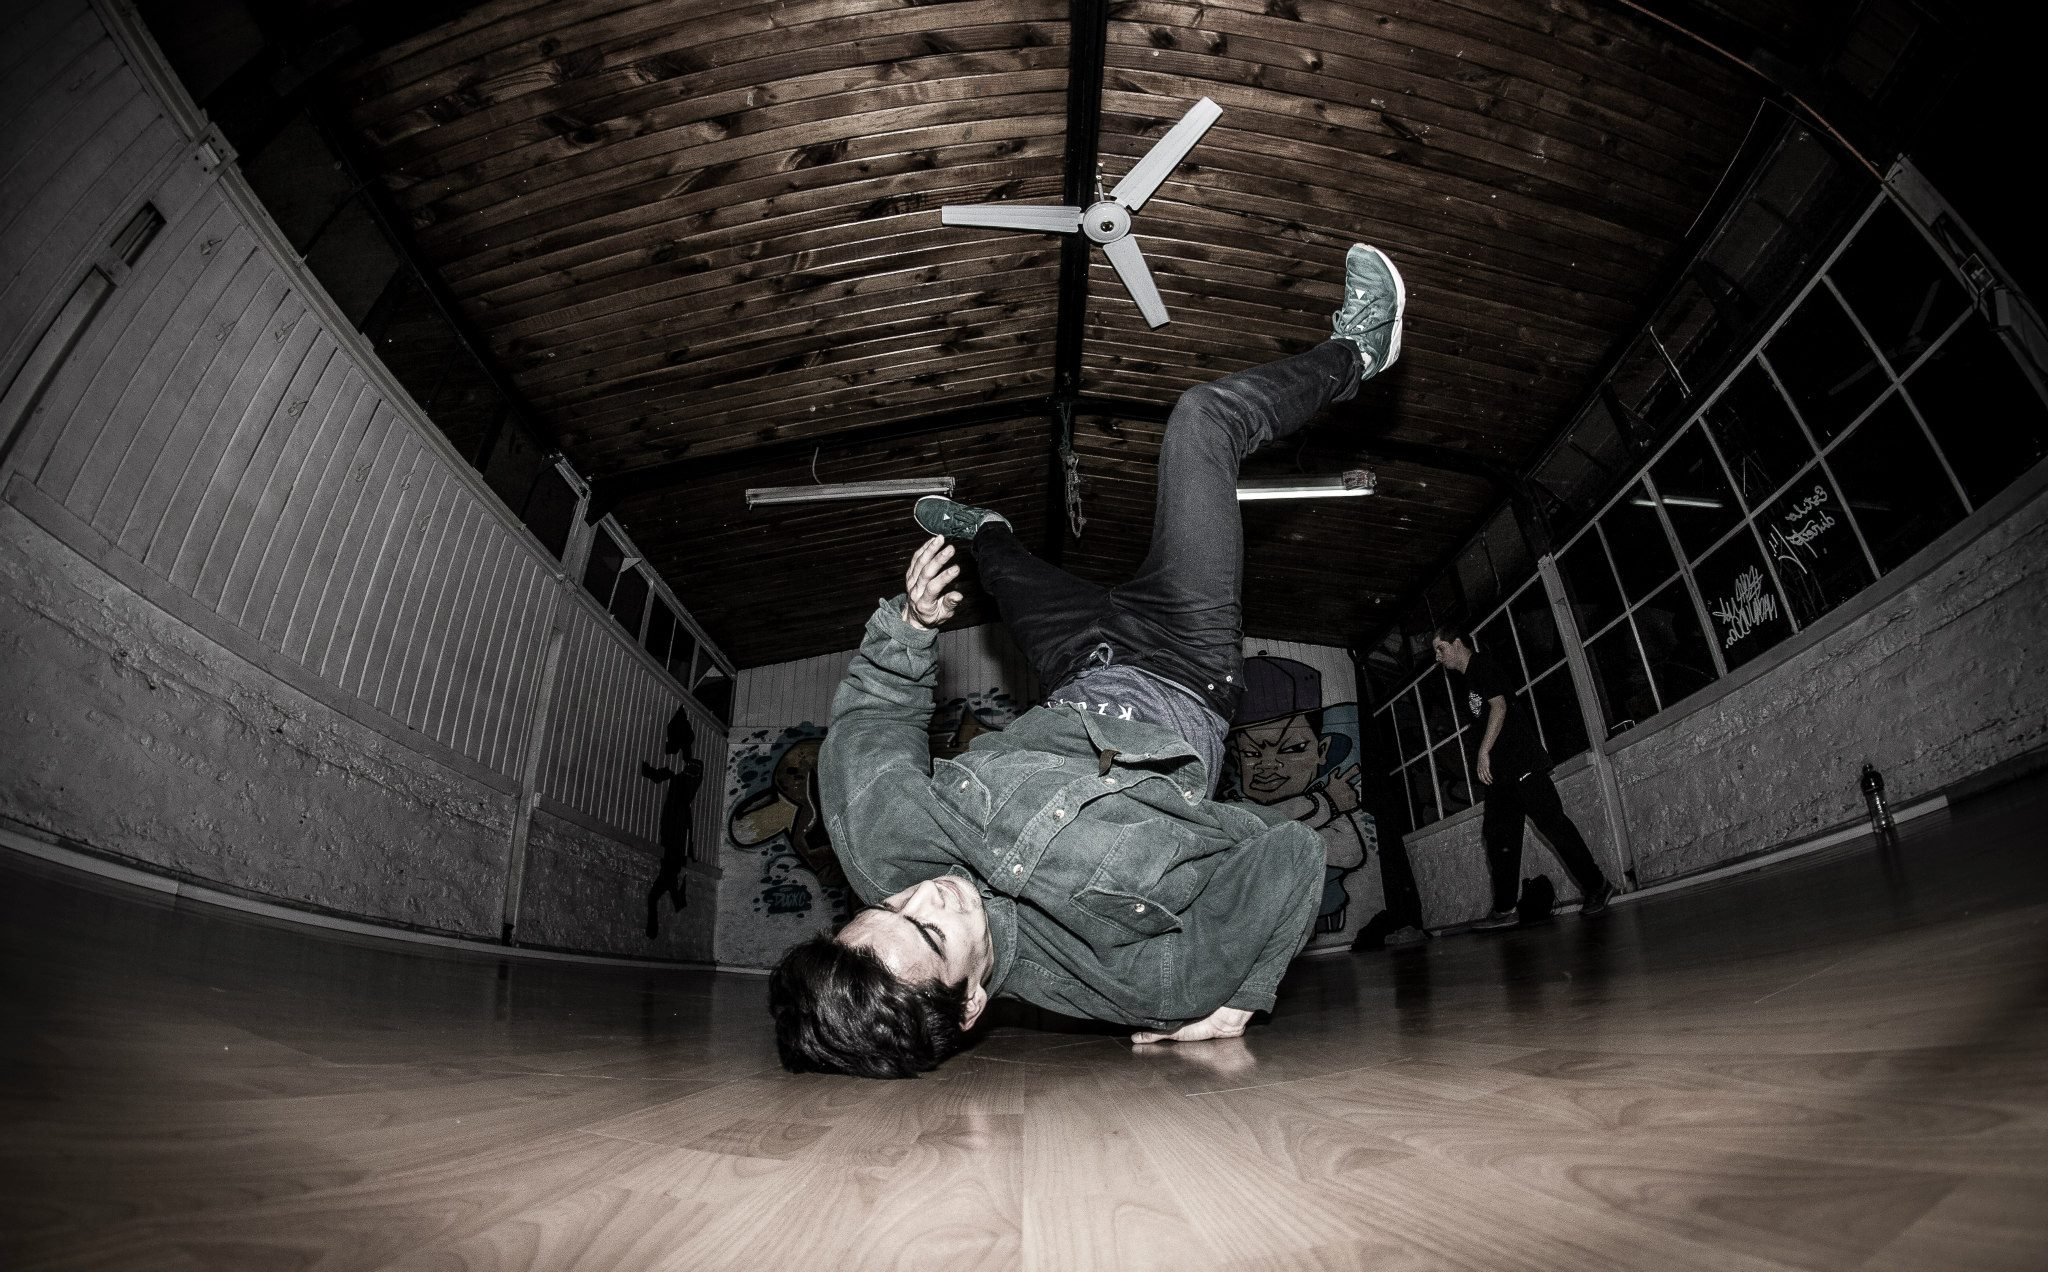
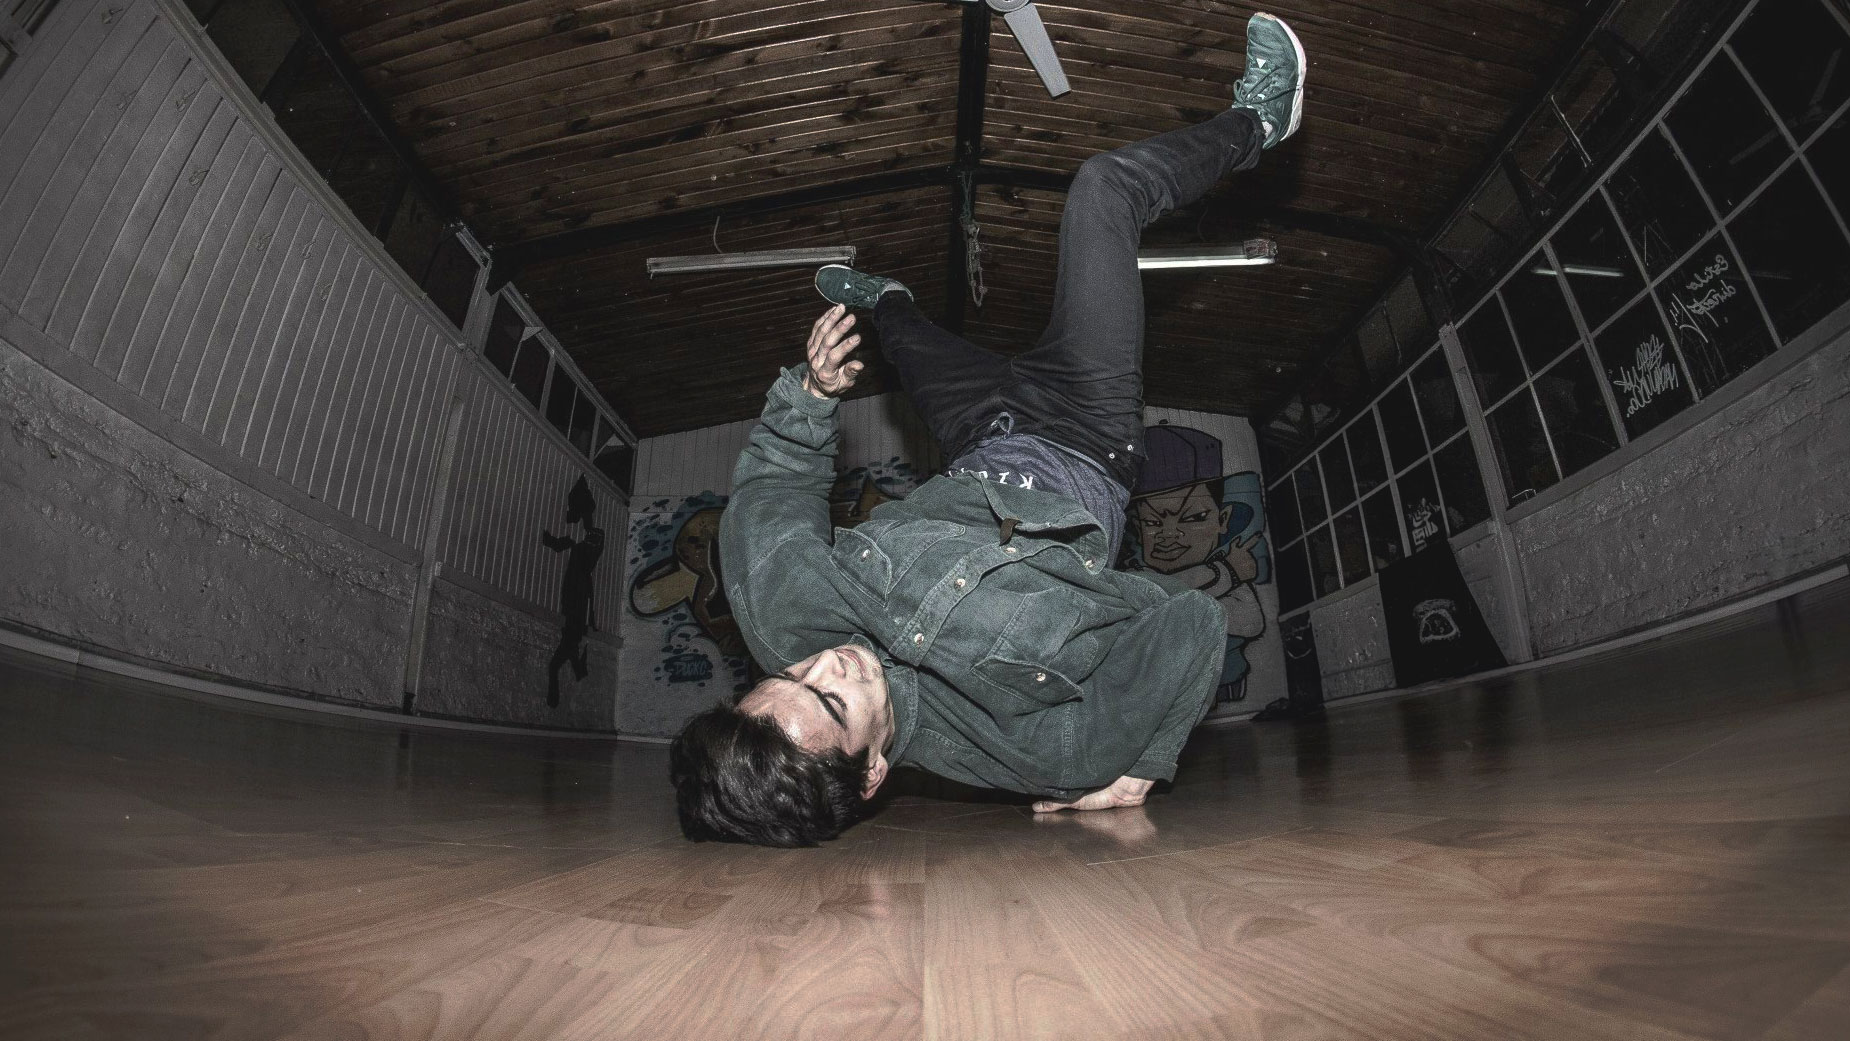
Update de Landing Page Estructura

diff --git a/html/landingpagev1.html b/html/landingpagev1.html
@@ -8,132 +8,74 @@
         integrity="sha384-QWTKZyjpPEjISv5WaRU9OFeRpok6YctnYmDr5pNlyT2bRjXh0JMhjY6hW+ALEwIH" crossorigin="anonymous">
     <title>salacypher</title>
 
-    <!-- Aqui aparece lo que ve el Usuario -->
-    <style>
-        .flex-container {
-            display: flex;
-            justify-content: right;
-        }
+    <!-- CSS -->
+    <link rel="stylesheet" href="estilos.css">
 
-        .flex-container>div {
-            background-color: #f1f1f1;
-            list-style-type: none;
-            margin: 10px;
-            padding: 20px;
-            font-size: 30px;
-        }
-
-        body {
-            margin: 0;
-            font-family: Arial, sans-serif;
-            background-color: #333;
-        }
-
-        .wrap {
-            width: 100vw;
-            height: 100vh;
-            display: flex;
-            align-items: end;
-            justify-content: center;
-            background: linear-gradient(to bottom, rgb(0 0 0 / .5), rgb(0 0 0 / .5)), url();
-            background-size: cover;
-            background-position: center;
-        }
-
-        .wrap-texto {
-            color: #fff;
-            text-align: center;
-            width: 50%;
-        }
-
-        header {
-            background-color: #333;
-            color: #fff;
-            padding: 10px;
-        }
-
-        nav ul {
-            list-style: none;
-            padding: 0;
-            margin: 0;
-        }
-
-        nav li {
-            display: inline;
-            /* Hace que los ítems del menú estén en una línea horizontal */
-            margin-right: 20px;
-            /* Espacio entre los ítems del menú */
-        }
-
-        nav a {
-            text-decoration: none;
-            color: #fff;
-            font-size: 16px;
-        }
-
-        nav a:hover {
-            text-decoration: underline;
-        }
-
-        .center-footer {
-            margin-right: 20px;
-            color: #f1f1f1;
-            display: flex;
-            justify-content: center;
-        }
-
-        .descripcion {
-            display: inside;
-            justify-content: cover;
-        }
-
-        .div-img {
-            position: cover;
-            width: 100%;
-            height: 100%;
-            top: 50%;
-            right: 50%;
-        }
-
-        .logo {
-            position: cover;
-            width: 100%;
-            height: 100%;
-            top: 50%;
-            left: 50%;
-        }
-    </style>
 </head>
 
 <body>
     <!-- Nav -->
-    <div class="flex-container">
-        <header class="showcase">
-            <nav role="nav">
-                <ul>
-                    <li><a href="#">HOME</a></li>
-                    <li><a href="#">CURSOS</a></li>
-                    <li><a href="#">TUTORIALES</a></li>
-                    <li><a href="#">TORNEOS</a></li>
-                    <li><a href="#">NOTICIAS</a></li>
-                    <button>INSCRIBETE</button>
-                </ul>
-
-            </nav>
-    </div>
-
+    <header>
+        <div class="flex-container">
+            <div style="display: inline-block; margin: 0;width: 100%;">
+                <header class="showcase">
+                    <nav role="nav">
+                        <ul>
+                            <li><a href="#"> HOME </a></li>
+                            <li><a href="#"> CURSOS </a></li>
+                            <li><a href="#"> TUTORIALES </a></li>
+                            <li><a href="#"> TORNEOS </a></li>
+                            <li><a href="#"> NOTICIAS </a></li>
+                            <li><a href="#abajo">¡Inscríbete ahora!</a></li>
+                        </ul>
+                    </nav>
+            </div>
+    </header>
+    <!--Texto Superpuesto / imagen 1 en css-->
     <div class="wrap">
         <div class="wrap-texto">
-            <h1>Texto Superpuesto</h1>
-            <p>Lorem ipsum dolor sit amet consectetur adipisicing elit. Reprehenderit hic tenetur rem quasi nulla
-                quibusdam? Ducimus commodi temporibus quae placeat.</p>
+            <h1>SALA CYPHER</h1>
+            <h7>
+                <p>CENTRO DE ENTRENAMIENTO Y COMUNIDAD BBOY</p>
+            </h7>
+            <h3>
+                <p>"Como muchos saben este centro de entrenamiento comunitario no
+                    es un simple lugar, desde las experiencias de todos los que participan se construye algo
+                    significativo y
+                    en constante cambio, tratando de mantener siempre la esencia de la Cultura Hip Hop".</p>
+            </h3>
         </div>
     </div>
+
+    <div class="logo">
+        <img src="https://i.ibb.co/ZgQBBhW/logo.png" alt="logobboy" width="200" height="150">
+    </div>
+
+    <!-- Formulario -->
+    <form action="/my-handling-form-page" method="post">
+        <div>
+            <label for="name">Nombre</label>
+            <input type="text" id="name" name="user_name" />
+        </div>
+        <div>
+            <label for="mail">Correo electronico</label>
+            <input type="email" id="mail" name="user_mail" />
+        </div>
+        <div>
+            <label for="msg">Mensaje</label>
+            <textarea id="msg" name="user_message"></textarea>
+        </div>
+        <div class="button">
+            <button type="submit">Envia tu mensaje</button>
+        </div>
+    </form>
+
+    <a name="abajo"></a>
 
     <footer class="center-footer">
         <p>SALA CYPHER &copy; 2024</p>
     </footer>
-
+    <script src="https://maxcdn.bootstrapcdn.com/bootstrap/4.5.2/js/bootstrap.min.js"></script>
 </body>
 
 </html>

diff --git a/html/estilos.css b/html/estilos.css
@@ -1,6 +1,6 @@
 .flex-container {
     display: flex;
-    justify-content: right;
+    justify-content: center;
 }
 
 .flex-container {
@@ -27,20 +27,22 @@ header {
 
 nav ul {
     list-style: none;
-    padding: 0;
+    padding: 1;
     margin: 0;
 }
 
 nav li {
     display: inline;
-    margin-right: 40px;
+    margin-right: 20px;
+    /* Reducido el margen para dispositivos más pequeños */
 }
 
 /* Color de letras Menu */
 nav a {
     text-decoration: none;
-    color: #ffffff;
+    color: #e0a615;
     font-size: 16px;
+
 }
 
 nav a:hover {
@@ -48,46 +50,57 @@ nav a:hover {
 
 }
 
+.a {
+    color: #e0a615;
+    background-color: #333;
+    border-radius: 1em;
+}
+
 /* Aquí va la imagen de incio */
 .wrap {
-    width: 1690px;
-    height: 890px;
+    max-width: 100%;
+    /* Haciendo que la imagen ocupe todo el ancho */
+    height: auto;
+    /* Para mantener la relación de aspecto */
     display: flex;
     align-items: center;
     justify-content: center;
+    /* Centrando la imagen */
     background: url(https://i.ibb.co/6XXcc76/bboy.jpg);
     background-size: cover;
-    background-position: left;
+    background-position: cover;
+
 }
 
 /* Aquí colocamos las propiedades del texto sobrepuesto */
 .wrap-texto {
     color: white;
     text-align: center;
-    justify-content: right;
-    width: 20%;
-    margin: 1px;
-    padding: 1px;
-    background-position: right;
-    border-radius: 1%;
+    width: 50%;
+    /* Cambiado para que el texto sea más ancho en dispositivos pequeños */
+    margin: 10%;
+    ;
+    /* Espaciado para dispositivos pequeños */
+    padding: 10%;
+    /* Espaciado para dispositivos pequeños */
+    background-position: center;
+    /* Aumentando el radio para suavizar las esquinas */
+    background-color: rgba(0, 0, 0, 0.311);
+    /* Ajustando la opacidad del fondo */
+    border: 1px solid #ccc;
+    border-radius: 1em;
 }
 
-logo {
-    border-radius: 1%;
-}
+.logo {
+    text-align: center;
 
-/* Aqui el footer */
-.center-footer {
-    color: #f1f1f1;
-    display: flex;
-    justify-content: center;
 }
-
 
 /* Aqui empieza la config del formulario */
 form {
     color: #fff;
     margin: 0 auto;
+    max-width: 100%;
     width: 400px;
     padding: 1em;
     border: 1px solid #ccc;
@@ -109,7 +122,7 @@ label {
 input,
 textarea {
     font: 1em sans-serif;
-    width: 300px;
+    width: 100%;
     -moz-box-sizing: border-box;
     box-sizing: border-box;
     border: 1px solid #999;
@@ -126,10 +139,11 @@ textarea {
     resize: vertical;
 }
 
-.button {
-    padding-left: 90px;
-}
 
-button {
-    margin-left: 0.5em;
+
+/* Aqui el footer */
+.center-footer {
+    color: #e0a615;
+    display: flex;
+    justify-content: center;
 }
